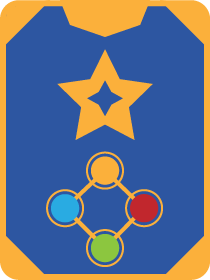
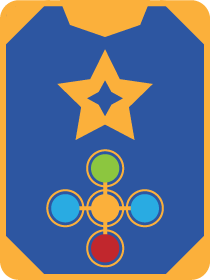
Add Star passive behavior + [UNS] remove the behavior filter to allow destroyed cards to launch behavior (otherwise can't clear effects on d

Changed region(s): [[0.3429, 0.5143, 0.8, 0.9714], [0.2, 0.6857, 0.2857, 0.8]]

diff --git a/Metempsychoid/Model/Card/Behaviors/StarPassiveBehavior.cs b/Metempsychoid/Model/Card/Behaviors/StarPassiveBehavior.cs
@@ -1,0 +1,115 @@
+using Metempsychoid.Model.Layer.BoardGameLayer;
+using Metempsychoid.Model.Layer.BoardGameLayer.Actions;
+using Metempsychoid.Model.Layer.BoardNotifLayer.Behavior;
+using System;
+using System.Collections.Generic;
+using System.Linq;
+using System.Text;
+using System.Threading.Tasks;
+
+namespace Metempsychoid.Model.Card.Behaviors
+{
+    public class StarPassiveBehavior : ACardBehavior, ICardBehaviorOwner
+    {
+        public int PointsToAdd
+        {
+            get;
+            private set;
+        }
+
+        public int NbCardsToAffect
+        {
+            get;
+            private set;
+        }
+
+        public HashSet<CardEntity> AffectedCards
+        {
+            get;
+            private set;
+        }
+
+        public StarPassiveBehavior(int nbCardToConvert, int pointsToAdd)
+        {
+            this.NbCardsToAffect = nbCardToConvert;
+            this.PointsToAdd = pointsToAdd;
+
+            this.AffectedCards = new HashSet<CardEntity>();
+        }
+
+        public override void OnActionsOccured(BoardGameLayer layer, StarEntity starEntity, List<IBoardGameAction> actionsOccured)
+        {
+            if (this.AffectedCards.Count > 0)
+            {
+                if (actionsOccured.Any(pElem => pElem is IModifyStarEntityAction))
+                {
+                    this.UpdateValue(layer, starEntity);
+                }
+            }
+        }
+
+        public override void OnAwakened(BoardGameLayer layer, StarEntity starEntity)
+        {
+            this.AffectedCards.Clear();
+
+            if (layer.StarSystem.Where(pElem => pElem.CardSocketed != null && pElem.CardSocketed.Card.CanBeValueModified).Any())
+            {
+                layer.RegisterNotifBehavior(new AddPointsNotifBehavior(this, starEntity.CardSocketed, this.PointsToAdd));
+            }
+        }
+
+        public override void OnUnawakened(BoardGameLayer layer, CardEntity cardEntity)
+        {
+            foreach (CardEntity cardEntityConverted in this.AffectedCards)
+            {
+                if (cardEntityConverted.ParentStar != null)
+                {
+                    layer.PendingActions.Add(new ClearCardValueModifier(cardEntityConverted, this));
+                }
+            }
+
+            this.AffectedCards.Clear();
+        }
+
+        public void OnBehaviorStart(ACardNotifBehavior behavior)
+        {
+            behavior.NbBehaviorUse = this.NbCardsToAffect;
+
+            (behavior as AddPointsNotifBehavior).FromStarEntities = behavior.NodeLevel.BoardGameLayer.StarSystem
+                .Where(pElem => pElem.CardSocketed != null && pElem.CardSocketed.Card.CanBeValueModified)
+                .ToList();
+        }
+
+        public void OnBehaviorEnd(ACardNotifBehavior behavior)
+        {
+            foreach (CardEntity cardEntityConverted in behavior.ModifiedCardEntities)
+            {
+                this.AffectedCards.Add(cardEntityConverted);
+            }
+        }
+
+        public void OnBehaviorCardPicked(ACardNotifBehavior behavior, CardEntity cardEntityPicked)
+        {
+
+        }
+
+        private void UpdateValue(BoardGameLayer layer, StarEntity starEntity)
+        {
+            HashSet<StarLinkEntity> starLinkEntities = layer.StarToLinks[starEntity];
+
+            List<CardEntity> notSocketedAnymore = this.AffectedCards.Where(pElem => pElem.ParentStar == null).ToList();
+
+            foreach (CardEntity cardEntity in notSocketedAnymore)
+            {
+                layer.PendingActions.Add(new ClearCardValueModifier(cardEntity, this));
+
+                this.AffectedCards.Remove(cardEntity);
+            }
+        }
+
+        public override ICardBehavior Clone()
+        {
+            return new StarPassiveBehavior(this.NbCardsToAffect, this.PointsToAdd);
+        }
+    }
+}

diff --git a/Metempsychoid/View/Layer2D/BoardNotifLayer2D/EndTurnButton2D.cs b/Metempsychoid/View/Layer2D/BoardNotifLayer2D/EndTurnButton2D.cs
@@ -120,10 +120,15 @@ namespace Metempsychoid.View.Layer2D.BoardNotifLayer2D
             this.CreateTextParagraph2D(new Vector2f(0, 25), new Vector2f(0, 0), TextParagraph2D.Alignment.CENTER, 20);
             this.UpdateTextOfParagraph(3, "convert_action");
 
+            this.CreateTextParagraph2D(new Vector2f(0, 25), new Vector2f(0, 0), TextParagraph2D.Alignment.CENTER, 20);
+            this.UpdateTextOfParagraph(4, "addPoints_action");
+
             this.idLabelToIndex.Add("DeleteCardNotifBehavior." + Enum.GetName(typeof(Model.Layer.BoardNotifLayer.Behavior.DeleteCardNotifBehavior.DeleteState), Model.Layer.BoardNotifLayer.Behavior.DeleteCardNotifBehavior.DeleteState.PICK_CARD), 1);
             this.idLabelToIndex.Add("DeleteCardNotifBehavior." + Enum.GetName(typeof(Model.Layer.BoardNotifLayer.Behavior.DeleteCardNotifBehavior.DeleteState), Model.Layer.BoardNotifLayer.Behavior.DeleteCardNotifBehavior.DeleteState.CAN_DELETE_CARD), 2);
             this.idLabelToIndex.Add("ConvertCardNotifBehavior." + Enum.GetName(typeof(Model.Layer.BoardNotifLayer.Behavior.ConvertCardNotifBehavior.DeleteState), Model.Layer.BoardNotifLayer.Behavior.ConvertCardNotifBehavior.DeleteState.PICK_CARD), 1);
             this.idLabelToIndex.Add("ConvertCardNotifBehavior." + Enum.GetName(typeof(Model.Layer.BoardNotifLayer.Behavior.ConvertCardNotifBehavior.DeleteState), Model.Layer.BoardNotifLayer.Behavior.ConvertCardNotifBehavior.DeleteState.CAN_DELETE_CARD), 3);
+            this.idLabelToIndex.Add("AddPointsNotifBehavior." + Enum.GetName(typeof(Model.Layer.BoardNotifLayer.Behavior.ConvertCardNotifBehavior.DeleteState), Model.Layer.BoardNotifLayer.Behavior.ConvertCardNotifBehavior.DeleteState.PICK_CARD), 1);
+            this.idLabelToIndex.Add("AddPointsNotifBehavior." + Enum.GetName(typeof(Model.Layer.BoardNotifLayer.Behavior.ConvertCardNotifBehavior.DeleteState), Model.Layer.BoardNotifLayer.Behavior.ConvertCardNotifBehavior.DeleteState.CAN_DELETE_CARD), 4);
 
             IAnimation showAnimation = new ColorAnimation(new Color(0, 0, 0, 0), new Color(0, 0, 0, 255), Time.FromSeconds(1), AnimationType.ONETIME, InterpolationMethod.SQUARE_ACC);
             this.animationsList.Add(showAnimation);

diff --git a/Metempsychoid/Model/Layer/BoardNotifLayer/Behavior/AddPointsNotifBehavior.cs b/Metempsychoid/Model/Layer/BoardNotifLayer/Behavior/AddPointsNotifBehavior.cs
@@ -1,0 +1,51 @@
+using Metempsychoid.Model.Card;
+using Metempsychoid.Model.Card.Behaviors;
+using Metempsychoid.Model.Layer.BoardGameLayer;
+using Metempsychoid.Model.Layer.BoardGameLayer.Actions;
+using System;
+using System.Collections.Generic;
+using System.Linq;
+using System.Text;
+using System.Threading.Tasks;
+
+namespace Metempsychoid.Model.Layer.BoardNotifLayer.Behavior
+{
+    public class AddPointsNotifBehavior : DeleteCardNotifBehavior
+    {
+        public int PointsToAdd
+        {
+            get;
+            private set;
+        }
+
+        public override DeleteState State
+        {
+            get
+            {
+                return this.state;
+            }
+
+            protected set
+            {
+                if (this.state != value)
+                {
+                    this.state = value;
+
+                    this.NodeLevel.BoardNotifLayer.NotifyNotifBehaviorPhaseChanged("AddPointsNotifBehavior." + this.State.ToString());
+                }
+            }
+        }
+
+        public AddPointsNotifBehavior(ICardBehaviorOwner cardBehaviorOwner, CardEntity ownerCardEntity, int pointsToAdd) : base(cardBehaviorOwner, ownerCardEntity)
+        {
+            this.PointsToAdd = pointsToAdd;
+        }
+
+        protected override void ExecuteBehavior(StarEntity starEntity)
+        {
+            this.ModifiedCardEntities.Add(starEntity.CardSocketed);
+
+            this.NodeLevel.BoardGameLayer.PendingActions.Add(new SetCardValueModifier(starEntity.CardSocketed, this.CardBehaviorOwner as ICardBehavior, this.PointsToAdd));
+        }
+    }
+}

diff --git a/Metempsychoid/View/Layer2D/BoardNotifLayer2D/EffectBehaviorLabel2D.cs b/Metempsychoid/View/Layer2D/BoardNotifLayer2D/EffectBehaviorLabel2D.cs
@@ -178,6 +178,7 @@ namespace Metempsychoid.View.Layer2D.BoardNotifLayer2D
             this.idLabelToIndex.Add(typeof(Model.Layer.BoardNotifLayer.Behavior.SocketCardNotifBehavior), "play_behavior_label");
             this.idLabelToIndex.Add(typeof(Model.Layer.BoardNotifLayer.Behavior.SocketNewCardNotifBehavior), "play_new_behavior_label");
             this.idLabelToIndex.Add(typeof(Model.Layer.BoardNotifLayer.Behavior.ConvertCardNotifBehavior), "convert_behavior_label");
+            this.idLabelToIndex.Add(typeof(Model.Layer.BoardNotifLayer.Behavior.AddPointsNotifBehavior), "addPoints_behavior_label");
 
             IAnimation showAnimation = new PositionAnimation(new Vector2f(0, 0), new Vector2f(this.Canevas.Width, 0), Time.FromSeconds(1), AnimationType.ONETIME, InterpolationMethod.SQUARE_ACC);
             this.animationsList.Add(showAnimation);

diff --git a/Metempsychoid/Model/Constellations/ConstellationPatternFactory.cs b/Metempsychoid/Model/Constellations/ConstellationPatternFactory.cs
@@ -495,14 +495,14 @@ namespace Metempsychoid.Model.Constellations
         {
             ConstellationPattern patternToCreate = new ConstellationPattern();
 
-            ConstellationNode node1 = new ConstellationNode();
+            ConstellationNode node1 = new ConstellationAllyNode();
             patternToCreate.AddNode(node1);
             ConstellationNode node2 = new ConstellationNode();
             patternToCreate.AddNode(node2);
 
             ConstellationNode node3 = new ConstellationNode();
             patternToCreate.AddNode(node3);
-            ConstellationNode node4 = new ConstellationNode();
+            ConstellationNode node4 = new ConstellationOpponentNode();
             patternToCreate.AddNode(node4);
 
             ConstellationNodeSelf self = new ConstellationNodeSelf();

diff --git a/Metempsychoid/Model/Card/Behaviors/LoverPassiveBehavior.cs b/Metempsychoid/Model/Card/Behaviors/LoverPassiveBehavior.cs
@@ -106,19 +106,6 @@ namespace Metempsychoid.Model.Card.Behaviors
             }
         }
 
-        //public override void OnDestroyed(BoardGameLayer layer, CardEntity cardEntity)
-        //{
-        //    foreach (CardEntity cardEntityConverted in this.ConvertedCards)
-        //    {
-        //        if (cardEntityConverted.ParentStar != null && cardEntityConverted.Card.CurrentOwner != cardEntityConverted.Card.FirstOwner)
-        //        {
-        //            layer.ConvertCard(cardEntityConverted.ParentStar, cardEntityConverted.Card.FirstOwner);
-        //        }
-        //    }
-
-        //    this.ConvertedCards.Clear();
-        //}
-
         public override ICardBehavior Clone()
         {
             return new LoverPassiveBehavior(this.NbCardsToConvert);

diff --git a/Metempsychoid/Model/Layer/BoardGameLayer/BoardGameLayer.cs b/Metempsychoid/Model/Layer/BoardGameLayer/BoardGameLayer.cs
@@ -497,7 +497,7 @@ namespace Metempsychoid.Model.Layer.BoardGameLayer
             if (this.PendingActions.Count > 0)
             {
                 // Clear the actions pending list to allow it to be fill by the next generation of events raised by card awakening ...
-                List<IBoardGameAction> currentPendingActions = this.PendingActions.Where(pElem => pElem.IsStillValid(this)).ToList();
+                List<IBoardGameAction> currentPendingActions = this.PendingActions.ToList();//Where(pElem => pElem.IsStillValid(this)).ToList();
                 this.PendingActions.Clear();
 
                 foreach (IBoardGameAction actionToResolve in currentPendingActions)

diff --git a/Metempsychoid/Model/Card/CardFactory.cs b/Metempsychoid/Model/Card/CardFactory.cs
@@ -202,7 +202,7 @@ namespace Metempsychoid.Model.Card
             cardTemplate = new CardTemplate("star", "star_title", "star_poem", "star_effect", 0);
             cardTemplate.Constellation = new Constellation(ConstellationPatternFactory.CreateStarConstellation());
 
-            cardTemplate.CardBehaviors.Add(new AddValueToSelfBehavior(3));
+            cardTemplate.CardBehaviors.Add(new StarPassiveBehavior(2, 1));
             this.AddCardTemplateToLibrary(cardTemplate);
         }
 
